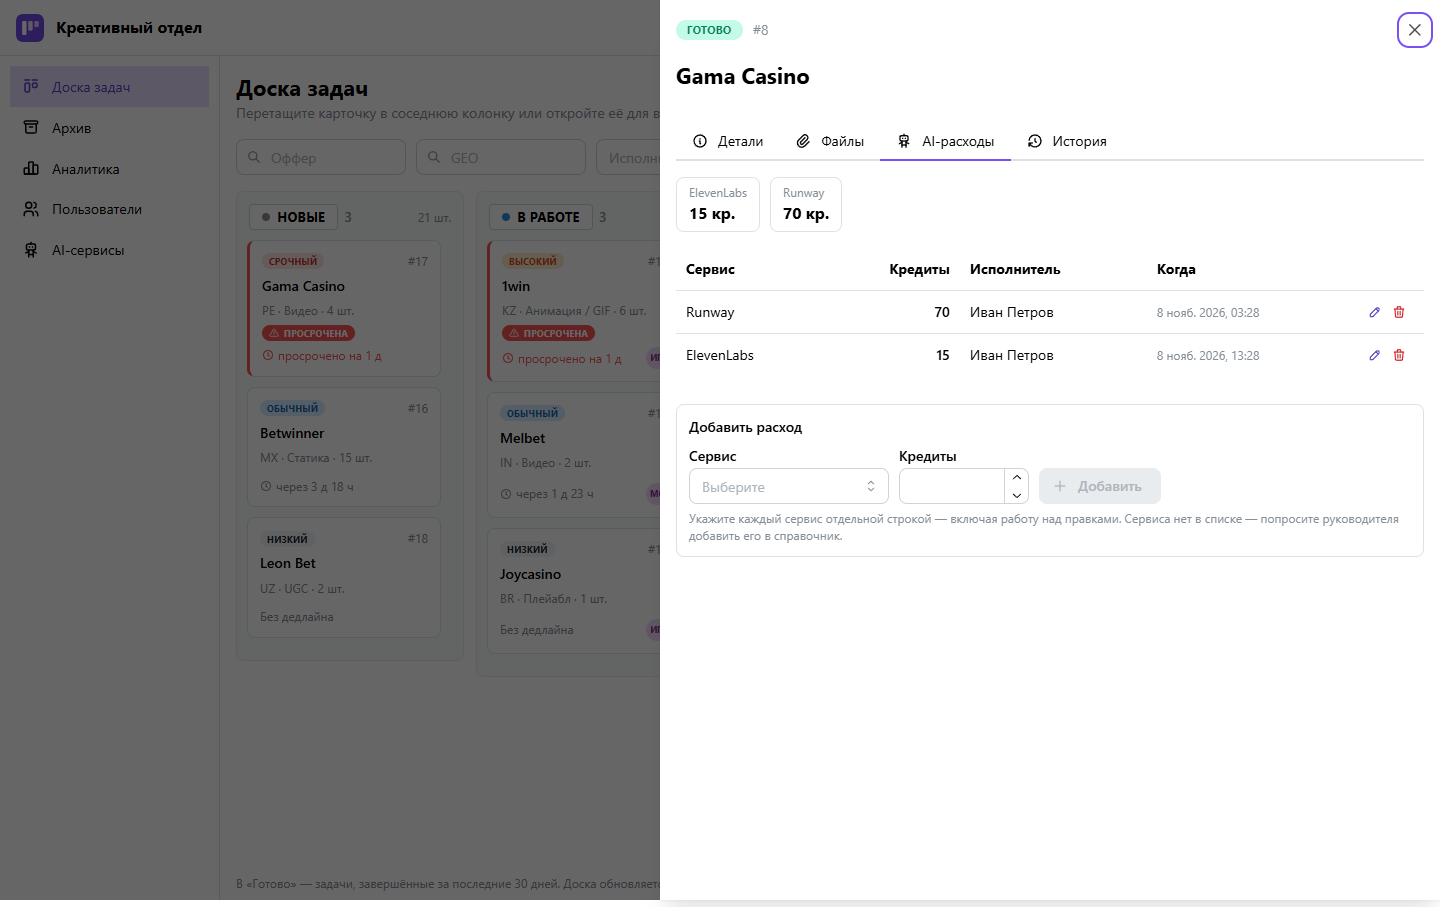
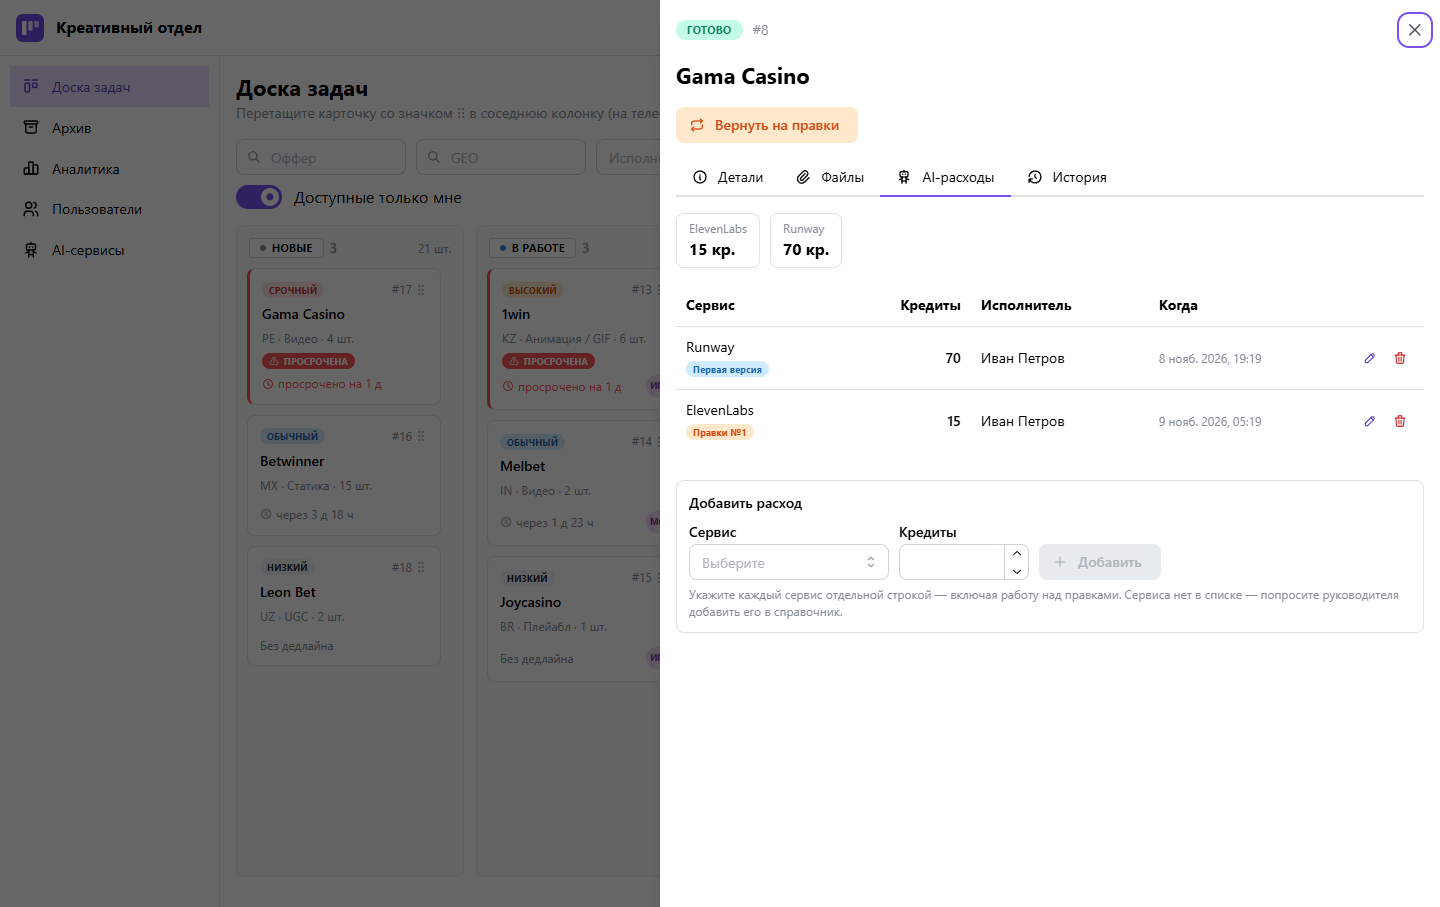
правки после аудита

diff --git a/frontend/src/components/tasks/BoardFilters.tsx b/frontend/src/components/tasks/BoardFilters.tsx
@@ -1,10 +1,11 @@
-import { Button, Group, Select, Switch, TextInput } from '@mantine/core';
+import { Button, Collapse, Group, Select, Stack, Switch, TextInput } from '@mantine/core';
 import { useDebouncedValue } from '@mantine/hooks';
-import { IconSearch, IconX } from '@tabler/icons-react';
+import { IconFilter, IconSearch, IconX } from '@tabler/icons-react';
 import { useEffect, useState } from 'react';
 
 import type { Priority, TaskFilters } from '../../api/tasks';
 import { useUsers } from '../../api/users';
+import { useIsMobile } from '../../hooks/useIsMobile';
 import { PRIORITY_LABELS, toOptions } from '../../lib/tasks';
 
 interface Props {
@@ -49,12 +50,39 @@ export function BoardFilters({ value, onChange, onlyMine, onOnlyMineChange }: Pr
   const set = (patch: Partial<TaskFilters>) => onChange({ ...value, ...patch });
   const userOptions = (list?: { id: number; full_name: string }[]) =>
     (list ?? []).map((u) => ({ value: String(u.id), label: u.full_name }));
-  const hasFilters = Object.values(value).some((v) => v !== undefined && v !== null && v !== '');
+  const activeCount = Object.values(value).filter(
+    (v) => v !== undefined && v !== null && v !== '',
+  ).length;
   // Сброс пересоздаёт текстовые поля — они очищаются без синхронизации через эффект
   const [resetKey, setResetKey] = useState(0);
+  // На телефоне фильтры свёрнуты: иначе они занимают весь первый экран над карточками
+  const isMobile = useIsMobile();
+  const [opened, setOpened] = useState(false);
 
-  return (
-    <Group gap="xs" wrap="wrap">
+  const onlyMineSwitch = onOnlyMineChange && (
+    <Switch
+      size="md"
+      label="Доступные только мне"
+      checked={!!onlyMine}
+      onChange={(e) => onOnlyMineChange(e.currentTarget.checked)}
+    />
+  );
+  const resetButton = activeCount > 0 && (
+    <Button
+      variant="subtle"
+      color="gray"
+      size="xs"
+      leftSection={<IconX size={14} />}
+      onClick={() => {
+        setResetKey((k) => k + 1);
+        onChange({});
+      }}
+    >
+      Сбросить
+    </Button>
+  );
+  const fields = (
+    <>
       <DebouncedInput
         key={`offer-${resetKey}`}
         label="Оффер"
@@ -102,28 +130,40 @@ export function BoardFilters({ value, onChange, onlyMine, onOnlyMineChange }: Pr
         checked={!!value.overdue}
         onChange={(e) => set({ overdue: e.currentTarget.checked || undefined })}
       />
-      {onOnlyMineChange && (
-        <Switch
-          size="md"
-          label="Доступные только мне"
-          checked={!!onlyMine}
-          onChange={(e) => onOnlyMineChange(e.currentTarget.checked)}
-        />
-      )}
-      {hasFilters && (
+    </>
+  );
+
+  if (!isMobile) {
+    return (
+      <Group gap="xs" wrap="wrap">
+        {fields}
+        {onlyMineSwitch}
+        {resetButton}
+      </Group>
+    );
+  }
+
+  // Телефон: кнопка «Фильтры (N)» и всегда видимый «Доступные только мне»; поля — под кнопкой
+  return (
+    <Stack gap="xs">
+      <Group justify="space-between" gap="xs">
         <Button
-          variant="subtle"
-          color="gray"
-          size="xs"
-          leftSection={<IconX size={14} />}
-          onClick={() => {
-            setResetKey((k) => k + 1);
-            onChange({});
-          }}
+          variant="light"
+          size="sm"
+          leftSection={<IconFilter size={16} />}
+          aria-expanded={opened}
+          onClick={() => setOpened((o) => !o)}
         >
-          Сбросить
+          {activeCount ? `Фильтры (${activeCount})` : 'Фильтры'}
         </Button>
-      )}
-    </Group>
+        {onlyMineSwitch}
+      </Group>
+      <Collapse expanded={opened}>
+        <Group gap="xs" wrap="wrap">
+          {fields}
+          {resetButton}
+        </Group>
+      </Collapse>
+    </Stack>
   );
 }

diff --git a/frontend/src/mobile.test.tsx b/frontend/src/mobile.test.tsx
@@ -3,6 +3,7 @@ import { screen } from '@testing-library/react';
 import userEvent from '@testing-library/user-event';
 import { afterEach, beforeEach, describe, expect, it, vi } from 'vitest';
 
+import { BoardFilters } from './components/tasks/BoardFilters';
 import { AnalyticsPage } from './pages/AnalyticsPage';
 import { UsersPage } from './pages/UsersPage';
 import { mockFetch, renderWithProviders } from './test/utils';
@@ -51,5 +52,30 @@ describe('мобильная версия', () => {
 
     expect(await screen.findByText('Редактирование')).toBeInTheDocument();
     expect(screen.getByLabelText('Имя')).toHaveValue('Анна Козлова');
+  });
+  it('доска на телефоне: фильтры свёрнуты под кнопку, «Доступные только мне» виден сразу', async () => {
+    mockFetch({ 'GET /api/users': [] });
+    const first = renderWithProviders(
+      <BoardFilters value={{}} onChange={() => {}} onlyMine onOnlyMineChange={() => {}} />,
+    );
+
+    expect(screen.getByRole('switch', { name: 'Доступные только мне' })).toBeVisible();
+    const toggle = screen.getByRole('button', { name: 'Фильтры' });
+    expect(toggle).toHaveAttribute('aria-expanded', 'false');
+    await userEvent.click(toggle);
+    expect(toggle).toHaveAttribute('aria-expanded', 'true');
+    expect(screen.getByRole('textbox', { name: 'Оффер' })).toBeInTheDocument();
+
+    // Число активных фильтров — на кнопке
+    first.unmount();
+    renderWithProviders(
+      <BoardFilters
+        value={{ offer: 'Pin', overdue: true }}
+        onChange={() => {}}
+        onlyMine
+        onOnlyMineChange={() => {}}
+      />,
+    );
+    expect(screen.getByRole('button', { name: 'Фильтры (2)' })).toBeInTheDocument();
   });
 });

diff --git a/frontend/src/lib/eventText.ts b/frontend/src/lib/eventText.ts
@@ -1,5 +1,9 @@
 import type { CreativeType, Priority, TaskEvent } from '../api/tasks';
+import { formatCredits } from './format';
 import { CREATIVE_TYPE_LABELS, formatDateTime, PRIORITY_LABELS, STATUS_LABELS } from './tasks';
+
+// Кредиты в истории приходят строкой из backend («12.5») — показываем как везде: «12,5»
+const credits = (v: unknown) => (Number.isFinite(Number(v)) ? formatCredits(Number(v)) : String(v));
 
 const FIELD_NAMES: Record<string, string> = {
   offer: 'Оффер',
@@ -25,6 +29,7 @@ function formatValue(field: string, value: unknown): string {
   if (field === 'creative_type')
     return CREATIVE_TYPE_LABELS[value as CreativeType] ?? String(value);
   if (field === 'deadline') return formatDateTime(String(value));
+  if (field === 'credits') return credits(value);
   return String(value);
 }
 
@@ -102,11 +107,11 @@ const FORMATTERS: Record<string, Formatter> = {
   attachment_removed: (p) => text(`Удалён ${kindName(p)}`, 'gray', [str(p.name)]),
   ai_usage_added: (p) =>
     text('Указан расход AI', 'indigo', [
-      `${str(p.service)}: ${str(p.credits)} кр. (${str(p.user)})`,
+      `${str(p.service)}: ${credits(p.credits)} кр. (${str(p.user)})`,
     ]),
   ai_usage_updated: (p) => text('Изменён расход AI', 'indigo', changes(p)),
   ai_usage_removed: (p) =>
-    text('Удалён расход AI', 'gray', [`${str(p.service)}: ${str(p.credits)} кр.`]),
+    text('Удалён расход AI', 'gray', [`${str(p.service)}: ${credits(p.credits)} кр.`]),
 };
 
 /** Текст события истории — нейтральный по форме (без «создал/создала»). */

diff --git a/frontend/src/components/tasks/AiUsagePanel.tsx b/frontend/src/components/tasks/AiUsagePanel.tsx
@@ -155,8 +155,9 @@ export function AiUsagePanel({ task }: { task: TaskDetail }) {
                   </Table.Tr>
                 ) : (
                   <Table.Tr key={u.id}>
-                    <Table.Td>
-                      <Group gap={4}>
+                    {/* Без переноса: метка круга не обрезается, таблица и так прокручивается */}
+                    <Table.Td style={{ whiteSpace: 'nowrap' }}>
+                      <Group gap={4} wrap="nowrap">
                         <Text size="sm">{u.service.name}</Text>
                         {!u.service.is_active && (
                           <Badge size="xs" color="gray">
@@ -171,6 +172,8 @@ export function AiUsagePanel({ task }: { task: TaskDetail }) {
                         color={u.round > 0 ? 'orange' : 'blue'}
                         tt="none"
                         mt={2}
+                        // Badge по умолчанию ужимается до ширины ячейки и режет текст многоточием
+                        styles={{ root: { maxWidth: 'none' }, label: { overflow: 'visible' } }}
                       >
                         {u.round > 0 ? `Правки №${u.round}` : 'Первая версия'}
                       </Badge>

diff --git a/frontend/src/theme.ts b/frontend/src/theme.ts
@@ -1,4 +1,11 @@
-import { createTheme, Drawer, Modal, Notification, PasswordInput } from '@mantine/core';
+import {
+  createTheme,
+  Drawer,
+  Modal,
+  Notification,
+  PasswordInput,
+  TableScrollContainer,
+} from '@mantine/core';
 
 // Кнопки-иконки без текста получают русскую подпись для скринридера по умолчанию
 const closeLabel = { closeButtonProps: { 'aria-label': 'Закрыть' } };
@@ -14,6 +21,10 @@ export const theme = createTheme({
     Notification: Notification.extend({ defaultProps: closeLabel }),
     PasswordInput: PasswordInput.extend({
       defaultProps: { visibilityToggleButtonProps: { 'aria-label': 'Показать или скрыть пароль' } },
+    }),
+    // Широкая таблица на телефоне: полоса прокрутки видна сразу — иначе дальние колонки не найти
+    TableScrollContainer: TableScrollContainer.extend({
+      defaultProps: { scrollAreaProps: { type: 'always', offsetScrollbars: 'x' } },
     }),
   },
 });

diff --git a/frontend/src/lib/eventText.test.ts b/frontend/src/lib/eventText.test.ts
@@ -85,6 +85,15 @@ describe('describeEvent', () => {
     expect(describeEvent(event('resubmitted')).details).toEqual([]);
   });
 
+  it('кредиты в истории — в том же формате, что везде', () => {
+    const added = event('ai_usage_added', { service: 'Midjourney', credits: '12.5', user: 'Иван' });
+    expect(describeEvent(added).details).toEqual(['Midjourney: 12,5 кр. (Иван)']);
+    const updated = event('ai_usage_updated', {
+      changes: [{ field: 'credits', old: '12.5', new: '1500' }],
+    });
+    expect(describeEvent(updated).details).toEqual(['Кредиты: 12,5 → 1 500']);
+  });
+
   it('вложение-результат', () => {
     expect(
       describeEvent(event('attachment_added', { kind: 'result', name: 'v2.mp4' })),

diff --git a/README.md b/README.md
@@ -56,7 +56,11 @@ docker compose up --build
 | ![Вход](docs/screenshots/01-login.png) | ![Файлы и версии результата](docs/screenshots/03-task-files.png) |
 | ![История задачи](docs/screenshots/04-task-history.png) | ![AI-расходы](docs/screenshots/05-task-ai.png) |
 
-![Аналитика](docs/screenshots/06-analytics.png)
+Аналитика — три вкладки с общими фильтрами:
+
+| Пользователи и задачи | Учёт AI-расходов | Учёт времени |
+|---|---|---|
+| ![Аналитика: пользователи и задачи](docs/screenshots/06-analytics.png) | ![Аналитика: учёт AI-расходов](docs/screenshots/08-analytics-ai.png) | ![Аналитика: учёт времени](docs/screenshots/09-analytics-time.png) |
 
 <img src="docs/screenshots/07-mobile-board.png" alt="Доска на телефоне" width="260">
 
